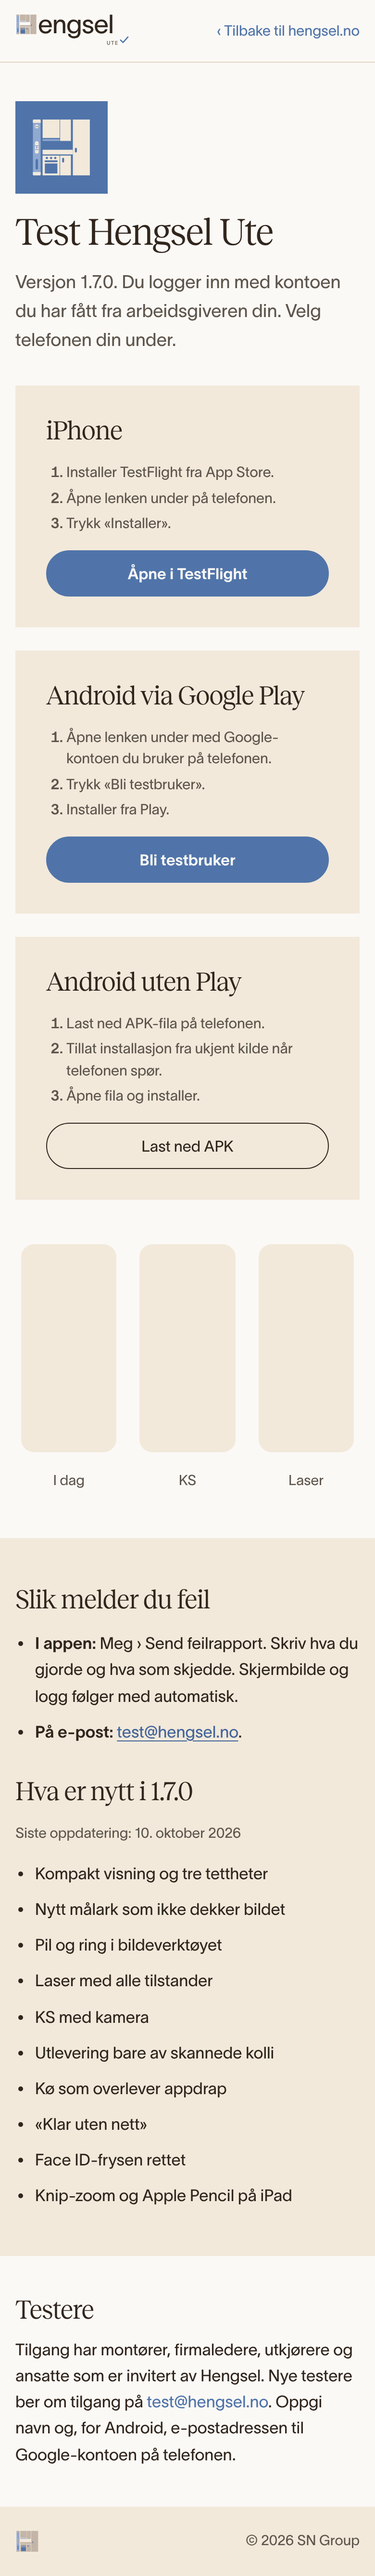
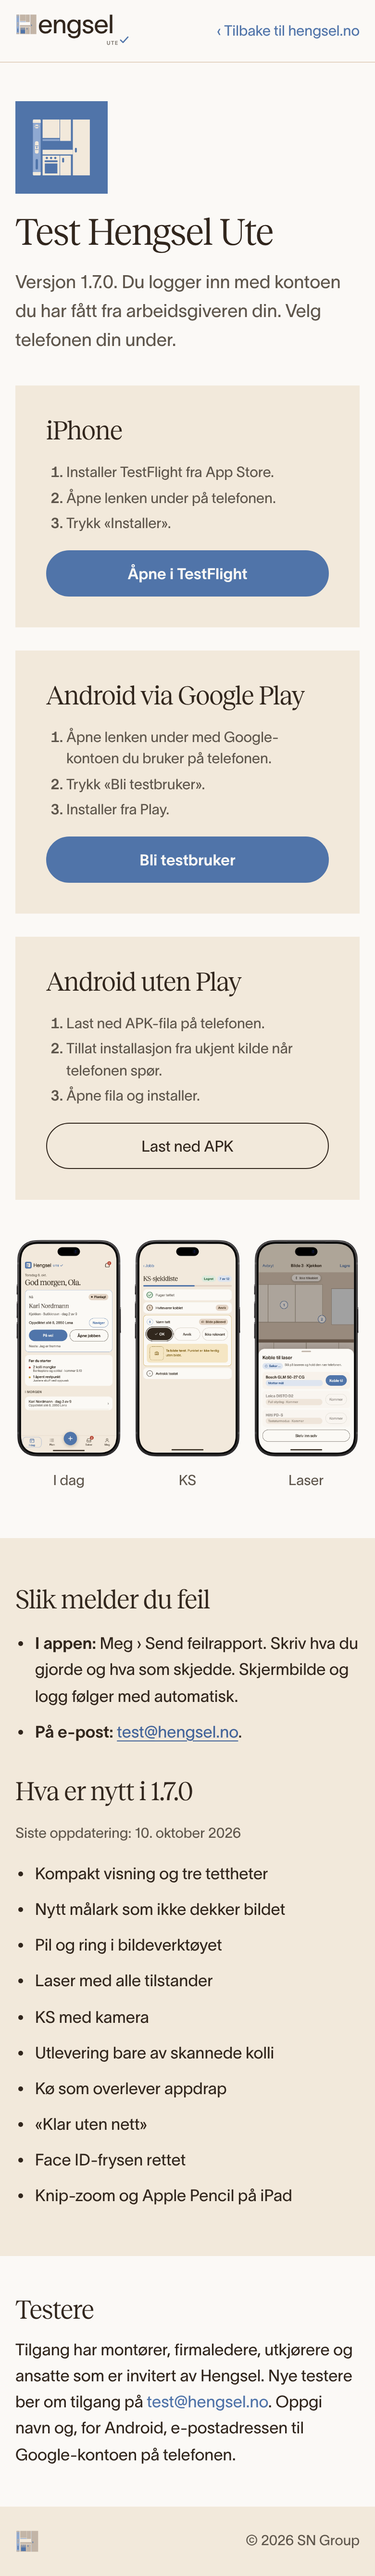
hengsel.no: ute-ferdig-tekst, /apptest-skjermbilder med lastede telefoner
«Klar for ferdigmelding» ved ute-ferdig (som bildet i v7). Mobilbildet av /apptest viste tomme
telefonrammer (lazy loading); skriptet laster bildene før helsidebildet. docs/bilder.md oppdatert.

Claude-Session: https://claude.ai/code/session_01BRrEhvCqcmW68z484NgJ5s

Changed region(s): [[0.0308, 0.4686, 0.6462, 0.5623], [0.6769, 0.4686, 0.9538, 0.5935]]

diff --git a/sites/hengsel/src/content/forside.ts b/sites/hengsel/src/content/forside.ts
@@ -43,7 +43,7 @@ export const UTE: [string, string, string, string][] = [
   ["Meld avvik", "Bilde med pil, og om det trengs ny vare.", "ute-avvik", "Hengsel Ute: meld avvik med bilde og valg om ny vare"],
   ["Punkter hos kunden", "Ett nummersystem, samme nummer i CRM og portal.", "ute-punkter", "Hengsel Ute: punktlisten på kunden med nummer og status"],
   ["Før og etter", "Punktkortet dokumenterer at det er løst.", "ute-punktkort", "Hengsel Ute: punktkort med før- og etterbilde"],
-  ["Ferdig montert", "Kundens signatur på skjermen.", "ute-ferdig", "Hengsel Ute: klar for ferdigmelding"],
+  ["Ferdig montert", "Klar for ferdigmelding.", "ute-ferdig", "Hengsel Ute: klar for ferdigmelding"],
   ["Typeskilt", "Hvitevaren fotograferes og legges på kunden.", "ute-typeskilt", "Hengsel Ute: hvitevarer skannet fra typeskilt"],
 ];
 export const UTE_IPAD_ALT = "Hengsel Ute på iPad: bildeverktøyet med punkter på bildet og punktliste til høyre";

diff --git a/docs/bilder.md b/docs/bilder.md
@@ -38,12 +38,11 @@ Kundeportalen, Integrasjoner, priser og om, kontakt.
   alltid med innholdet: `crm-resultater` er Leder › Oversikt. Alt-tekstene i `src/content/forside.ts` beskriver det bildene faktisk viser.
 - **iPad:** `ute-ipad-bildeverktoy` er 2360 × 1640 (1,44:1, v4) og fyller hullet i `ipad-liggende` uten beskjæring. Det finnes ingen bildetilpasning
   (`fit`, `contain`) i `Enhet.astro`.
-- **Tekst og bilde som ikke stemmer helt:** fasit-teksten «Kundens signatur på skjermen» står ved `ute-ferdig`, som i v7 viser «Klar for ferdigmelding».
-  Bilde og tekst er gjort som fasiten; si fra om pakken skal ha et eget signaturbilde.
-- **Topplogo:** `Side.astro` bruker `hengsel-logo-lys.svg` som i fil 60 (var CRM-logo før). Sidebakgrunnen er Off White; kortene er Beige 3.
+- **Ferdig montert:** teksten er «Klar for ferdigmelding» (som bildet i v7), ikke «Kundens signatur på skjermen» fra fil 60.
+- **Topplogo:** `Side.astro` bruker `hengsel-logo-lys.svg` som i fil 60 (var CRM-logo før). Sidebakgrunnen er Off White; kortene er Beige 3. Begge er avgjort å beholde.
 - **Appknapper:** `/apptest` er skjult (passordvegg, noindex, ikke lenket), så «App Store · TestFlight» og «Google Play» er deaktiverte knapper
   (`TODO_…` i `src/content/forside.ts`) til lenkene er avklart. «Bli tester» er `mailto:test@hengsel.no`.
-- **Ikke i fasit, men beholdt:** kontaktskjemaet med plantegning og bunnen.
+- **Ikke i fasit, men beholdt:** kontaktskjemaet med plantegning og bunnen. Avgjort å beholde, i likhet med deaktiverte appknapper og faner i «For kontoret».
 - **/apptest** følger W2 (korttekster, pillknapper, «‹ Tilbake til hengsel.no», to kolonner, bunn med merke). Beholdt fra tidligere beskjed: Ute-logoen
   øverst, versjon og «Hva er nytt» fra `apptest-lenker.ts` (Action), «Siste oppdatering», «Testere» og tre iPhone-skjermer.
 - Ikke i bruk i pakkene: `ipad13/*`, Duo-rammen `iphone-aapen`, `pc/*` (ingen MacBook-ramme på siden).
@@ -53,3 +52,5 @@ Kundeportalen, Integrasjoner, priser og om, kontakt.
 `npm test` (lenker og bilder i `img/` svarer 200, pluss enhetstestene) og `node scripts/skjermbilder.mjs` (ni telefoner i Hengsel Ute, fire
 kontorfaner med lysboks, ingen eksterne forespørsler, ingen informasjonskapsler). Sett i nettleser på PC 1440 og telefon 390, lyst og mørkt: forside
 og /apptest. Ingen kuttede kanter, ingen dobbel statuslinje, ingen merkenavn, bildene fyller skjermhullet.
+
+/apptest er gjennomgått på 1440 og 390: ingen dobbel statuslinje (bildene har ingen statuslinje, rammen har island), og ingen kundenavn eller Sigdal/Nobia. Appskjermen `ute-laser` viser lasermålernes produktnavn (Bosch GLM, Leica DISTO, Hilti PD-S); de er en del av bildet fra pakken.
